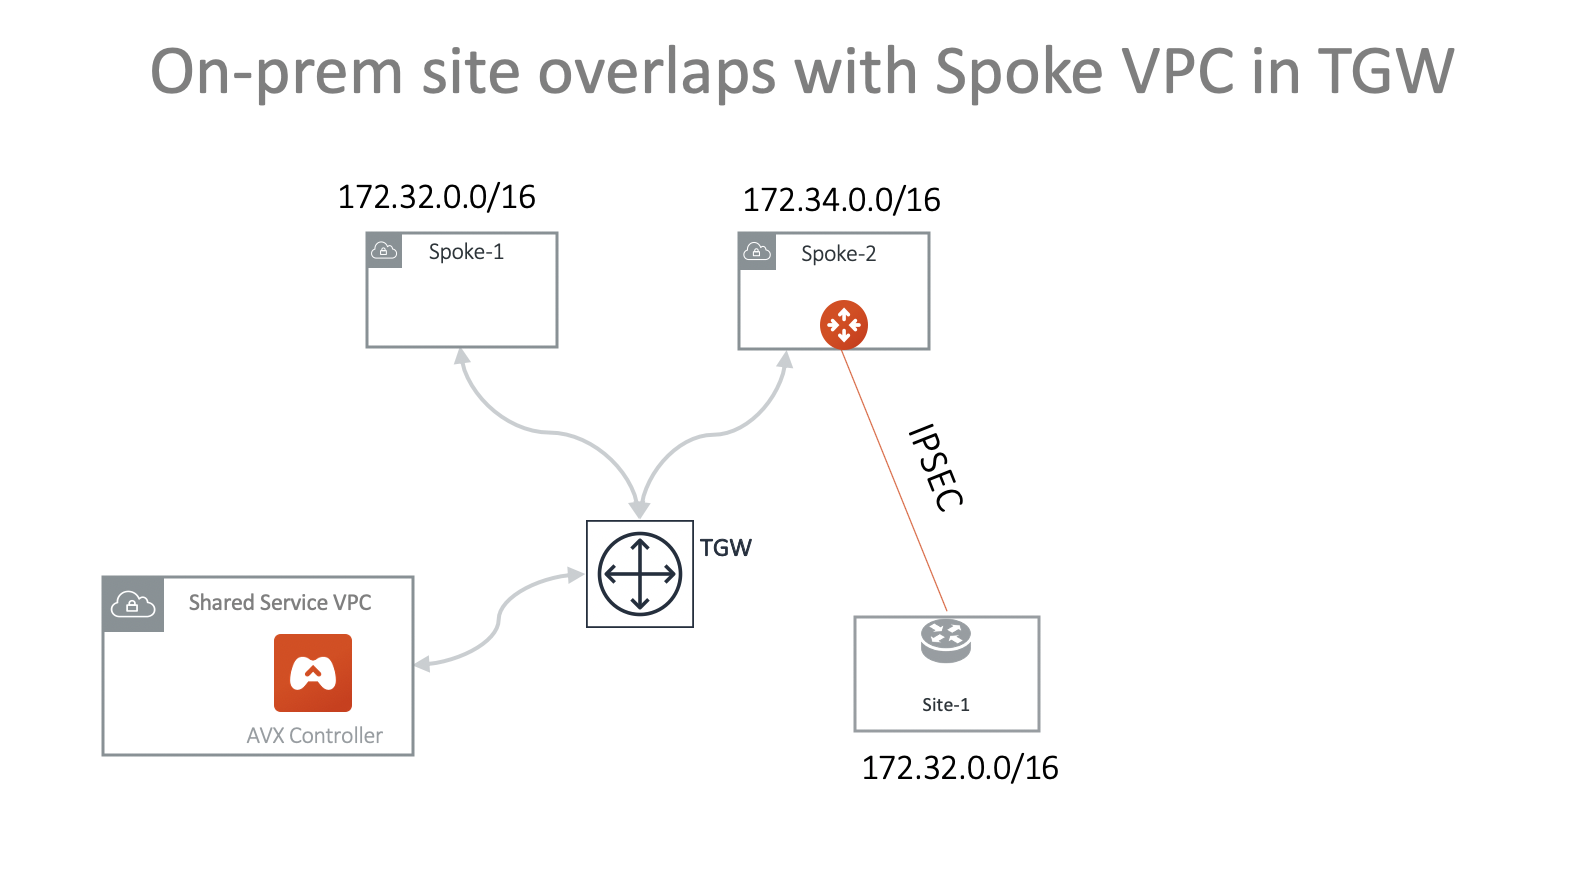
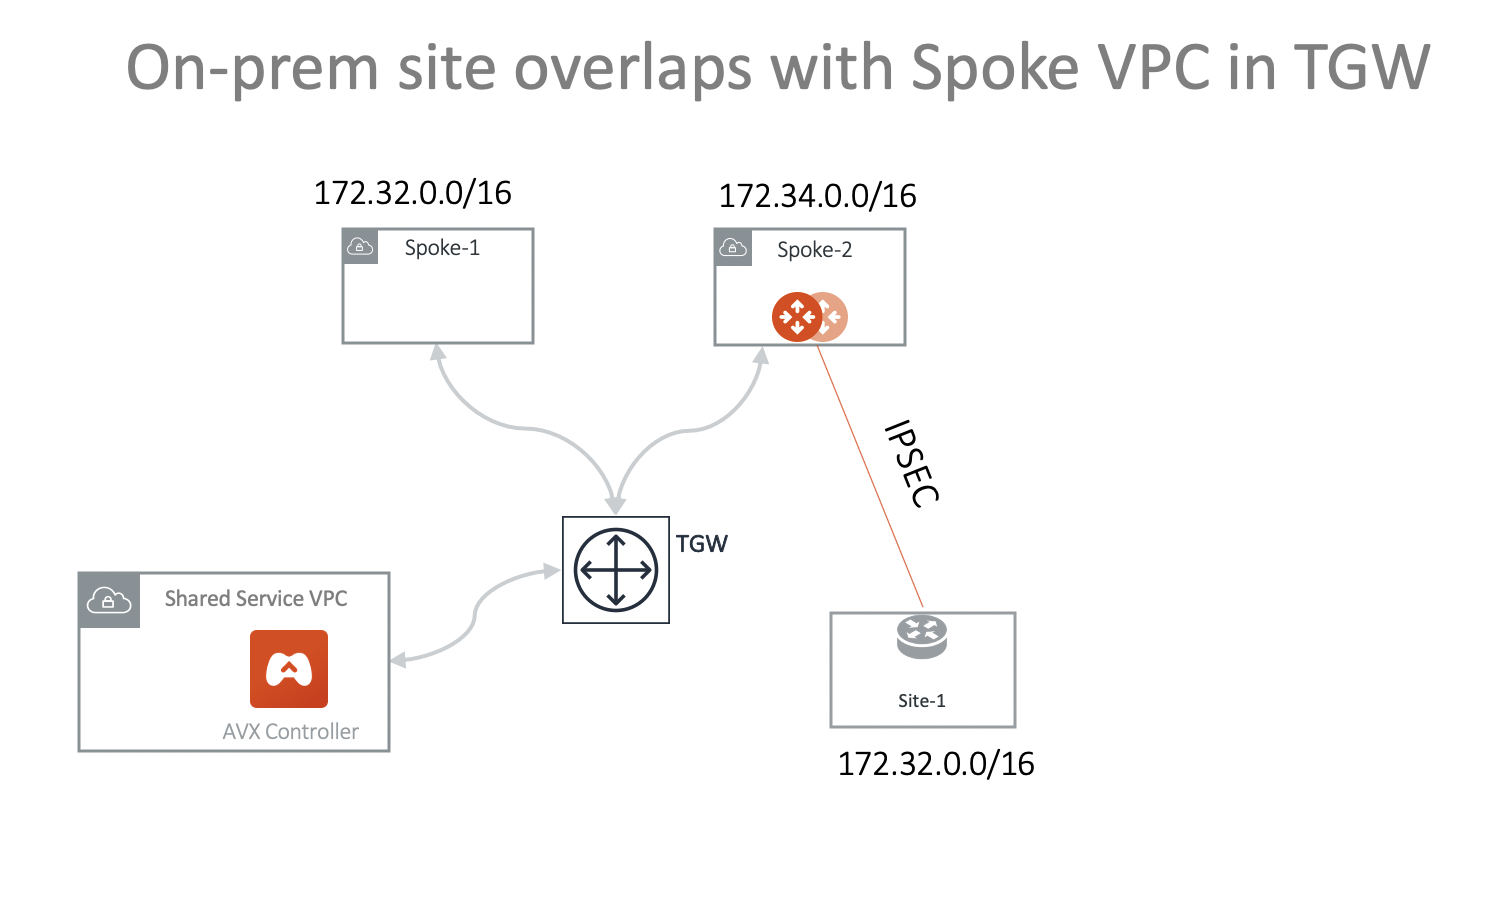
update instructions

diff --git a/HowTos/overlapping_network_solutions.rst b/HowTos/overlapping_network_solutions.rst
@@ -34,15 +34,17 @@ build a more complex network.
 
 Following are the steps to setup the above networks. 
 
- 1. Attach VPC Spoke-2 to TGW.
- #. Launch Aviatrix gateway in Spoke-2. 
- #. Configure Site2Cloud to site-1 with Mapped Option on Spoke-2. Key parameters on site2cloud IPSEC configuration: 
+ 1. Attach VPC Spoke-2 to TGW. Go to TGW Orchestrator -> Build to attach. 
+ #. Launch Aviatrix gateway in Spoke-2. Go to Gateway -> Add New to launch. 
+ #. (Optional) Enable HA. Go to Gateway -> Gateway for High Availability Peering to enable HA. 
+ #. Configure Site2Cloud to site-1 with Mapped Option on Spoke-2. Go to Site2Cloud -> Add New. Key parameters on site2cloud IPSEC configuration: 
 	
     ::
 
        Spoke-2 gateway site2cloud key parameters: 
 
             Connection Type: Mapped
+            Enable HA: Selected (Optional)
             Local Subnet (real): 172.32.0.0/16
             local Subnet (virtual): 192.168.0.0/16
             Remote Subnet (real): 172.32.0.0/16
@@ -59,7 +61,7 @@ Following are the steps to setup the above networks.
 
  #. Make sure the tunnel come up. 
  
- #. Advertise 100.100.0.0/16 to TGW from Spoke-2 VPC. Go to TGW Orchestrator -> List. Click Spoke-2, click Actions -> Edit Spoke Advertised Routes. Enter `172.34.0.0/100, 100.100.0.0/16`, where 172.34.0.0/16 is Spoke-2 VPC CIDR and 100.100.0.0/16 is the virtual network CIDR of on-prem site-1. 
+ #. **Important** Advertise 100.100.0.0/16 to TGW from Spoke-2 VPC. Go to TGW Orchestrator -> List. Click Spoke-2, click Actions -> Edit Spoke Advertised Routes. Enter `172.34.0.0/100, 100.100.0.0/16`, where 172.34.0.0/16 is Spoke-2 VPC CIDR and 100.100.0.0/16 is the virtual network CIDR of on-prem site-1. 
 
  #. Test connectivity. From on-prem site-1 to ping an instance in Spoke-1 using the Spoke-1 virtual network CIDR with the real host portion of its IP address. For example, if the instance in Spoke-1 is 172.32.10.15, then site-1 should ping 192.168.10.15. 
 
@@ -73,8 +75,9 @@ Scenario 1 can be extended to on-prem multi sites that have overlapping or ident
 
 |overlap_multi_onprem_tgw| 
 
- 1. Attache VPC Spoke-2 to TGW.
- #. Launch Aviatrix gateway in Spoke-2.
+ 1. Attache VPC Spoke-2 to TGW. Go to TGW Orchestrator -> Build to attach.
+ #. Launch Aviatrix gateway in Spoke-2. Go to Gateway -> Add New to launch.
+ #. (Optional) Enable HA. Go to Gateway -> Gateway for High Availability Peering to enable HA.
  #. Create a Site2Cloud connection to site-1 with Mapped Option on Spoke-2. Key parameters on site2cloud IPSEC configuration:
 
     ::
@@ -82,6 +85,7 @@ Scenario 1 can be extended to on-prem multi sites that have overlapping or ident
        Spoke-2 gateway site2cloud to site-1 key parameters:
 
             Connection Type: Mapped
+            Enable HA: Selected (Optional)
             Local Subnet (real): 172.32.0.0/16
             local Subnet (virtual): 192.168.0.0/16
             Remote Subnet (real): 172.32.0.0/16
@@ -106,6 +110,7 @@ Scenario 1 can be extended to on-prem multi sites that have overlapping or ident
        Spoke-2 gateway site2cloud to site-2 key parameters:
 
             Connection Type: Mapped
+            Enable HA: Selected (Optional)
             Local Subnet (real): 172.32.0.0/16
             local Subnet (virtual): 192.168.0.0/16
             Remote Subnet (real): 172.32.0.0/16
